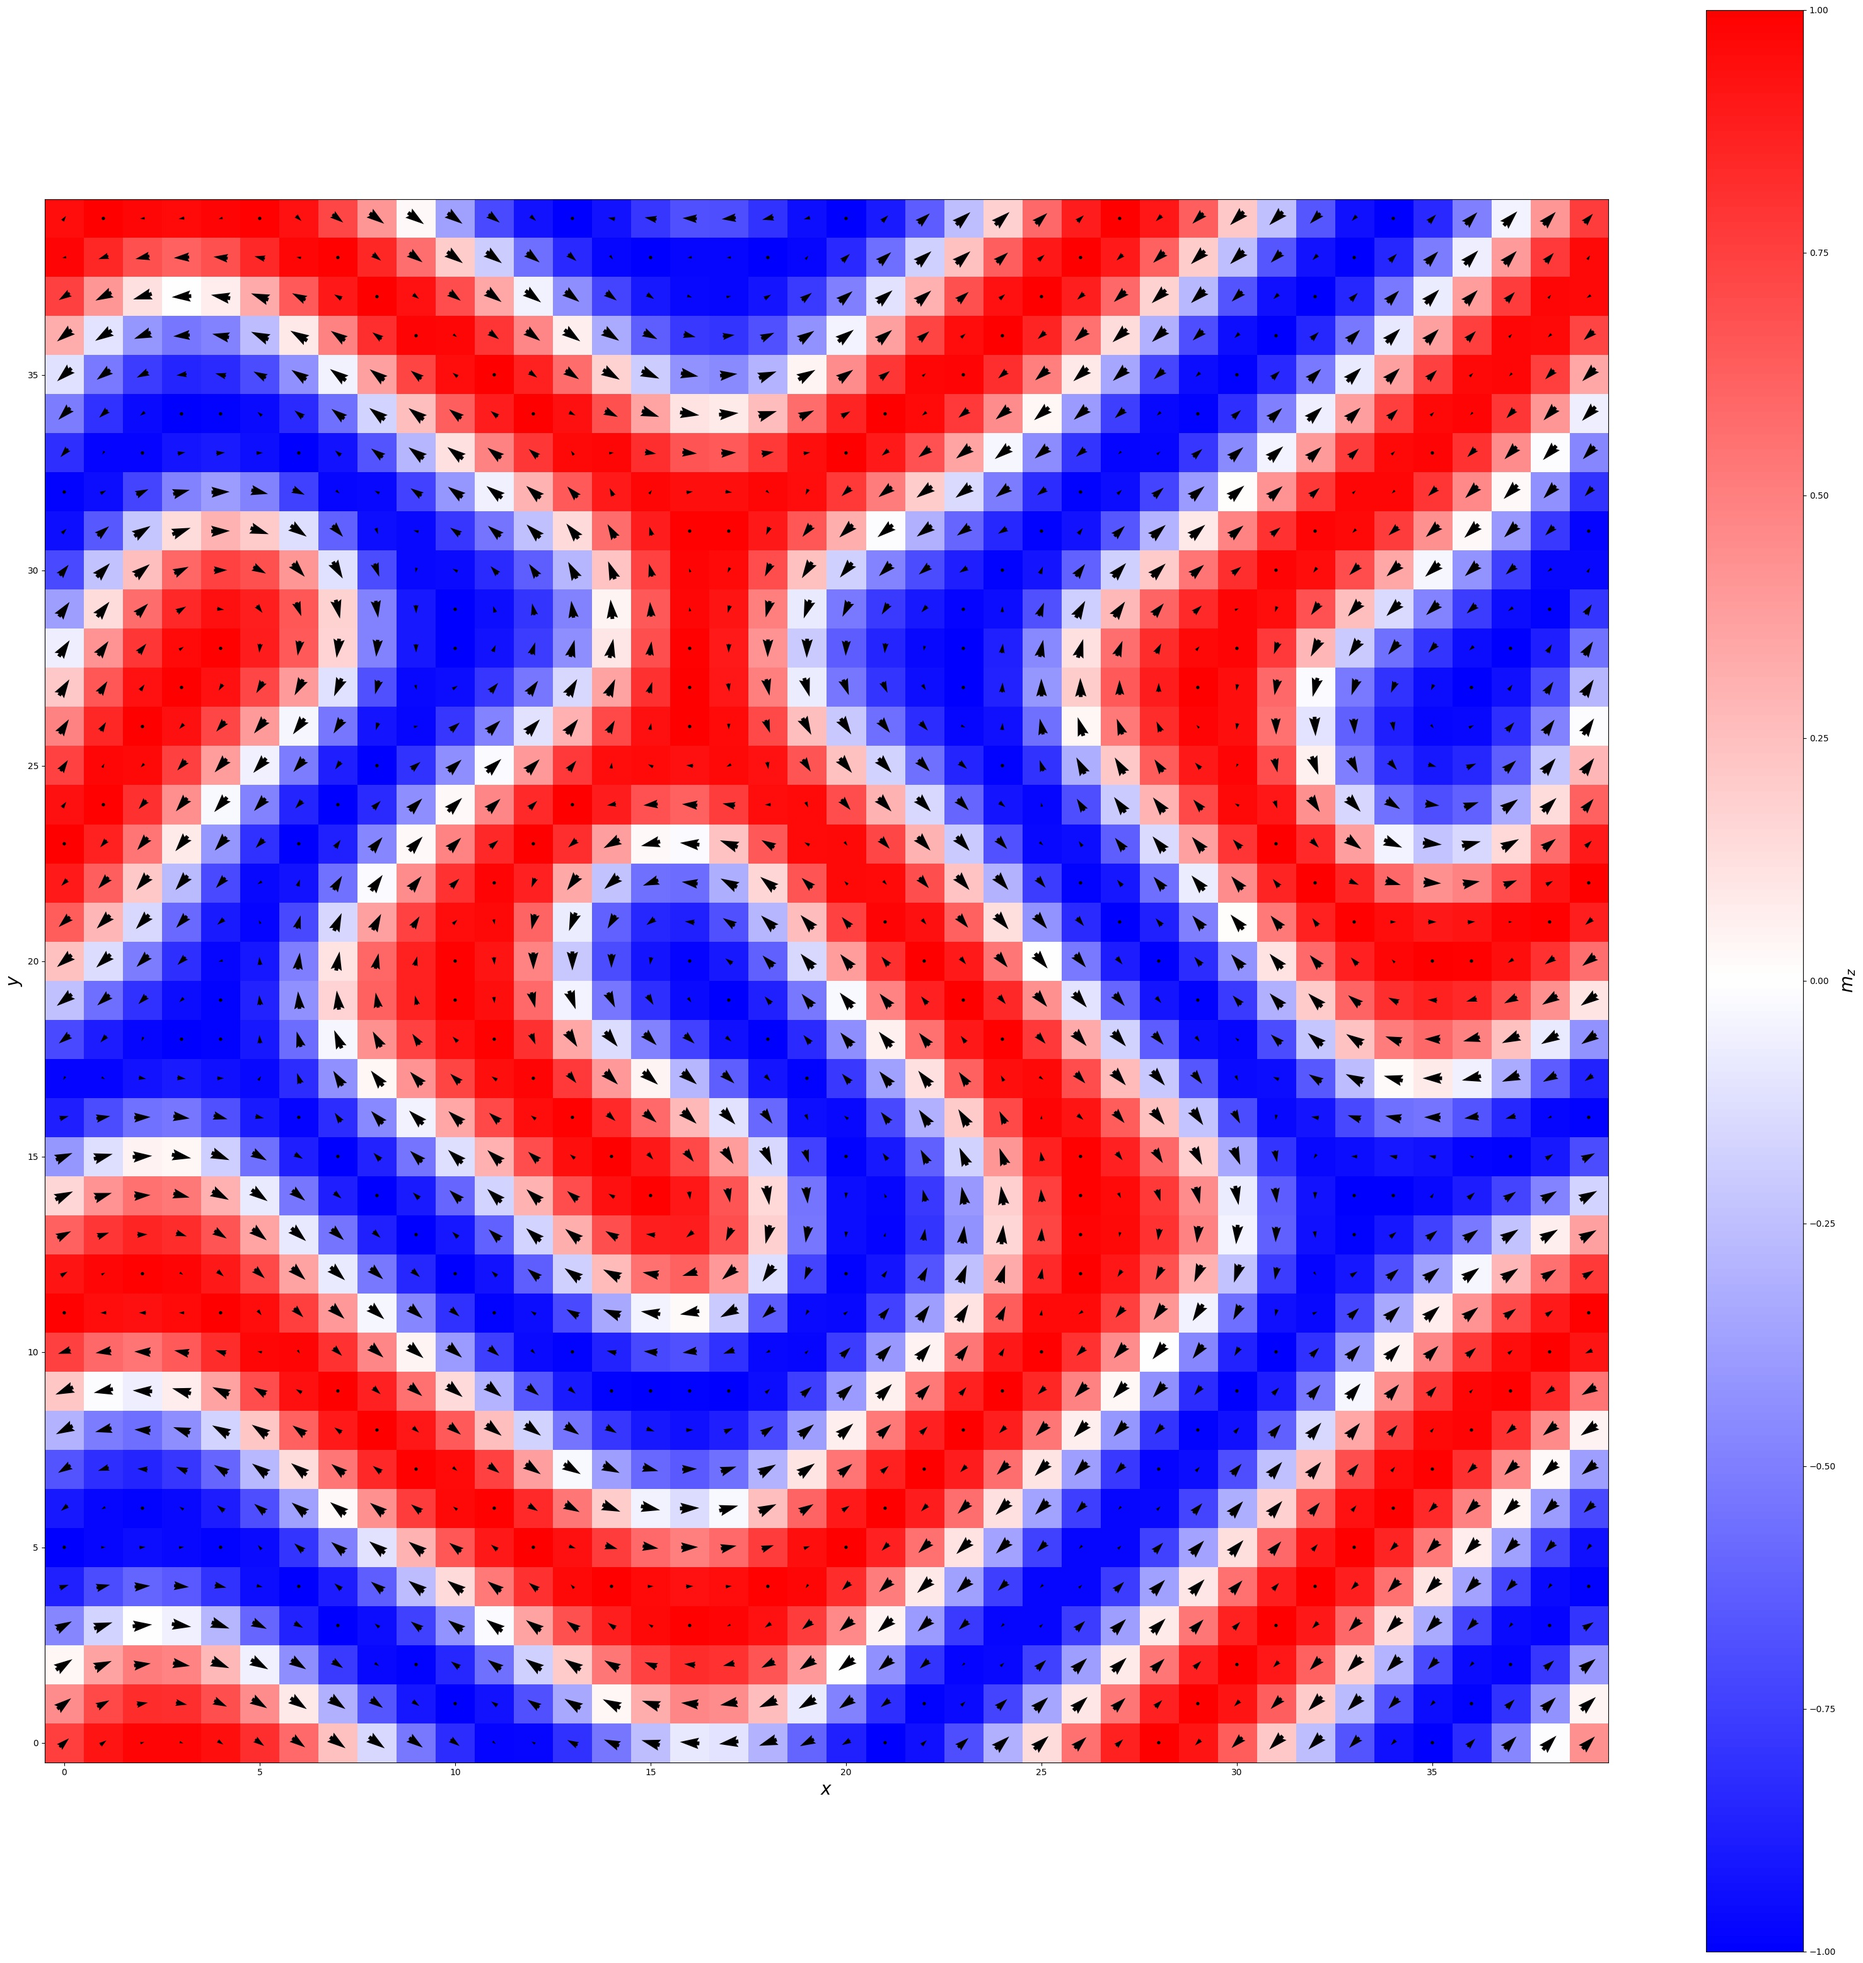
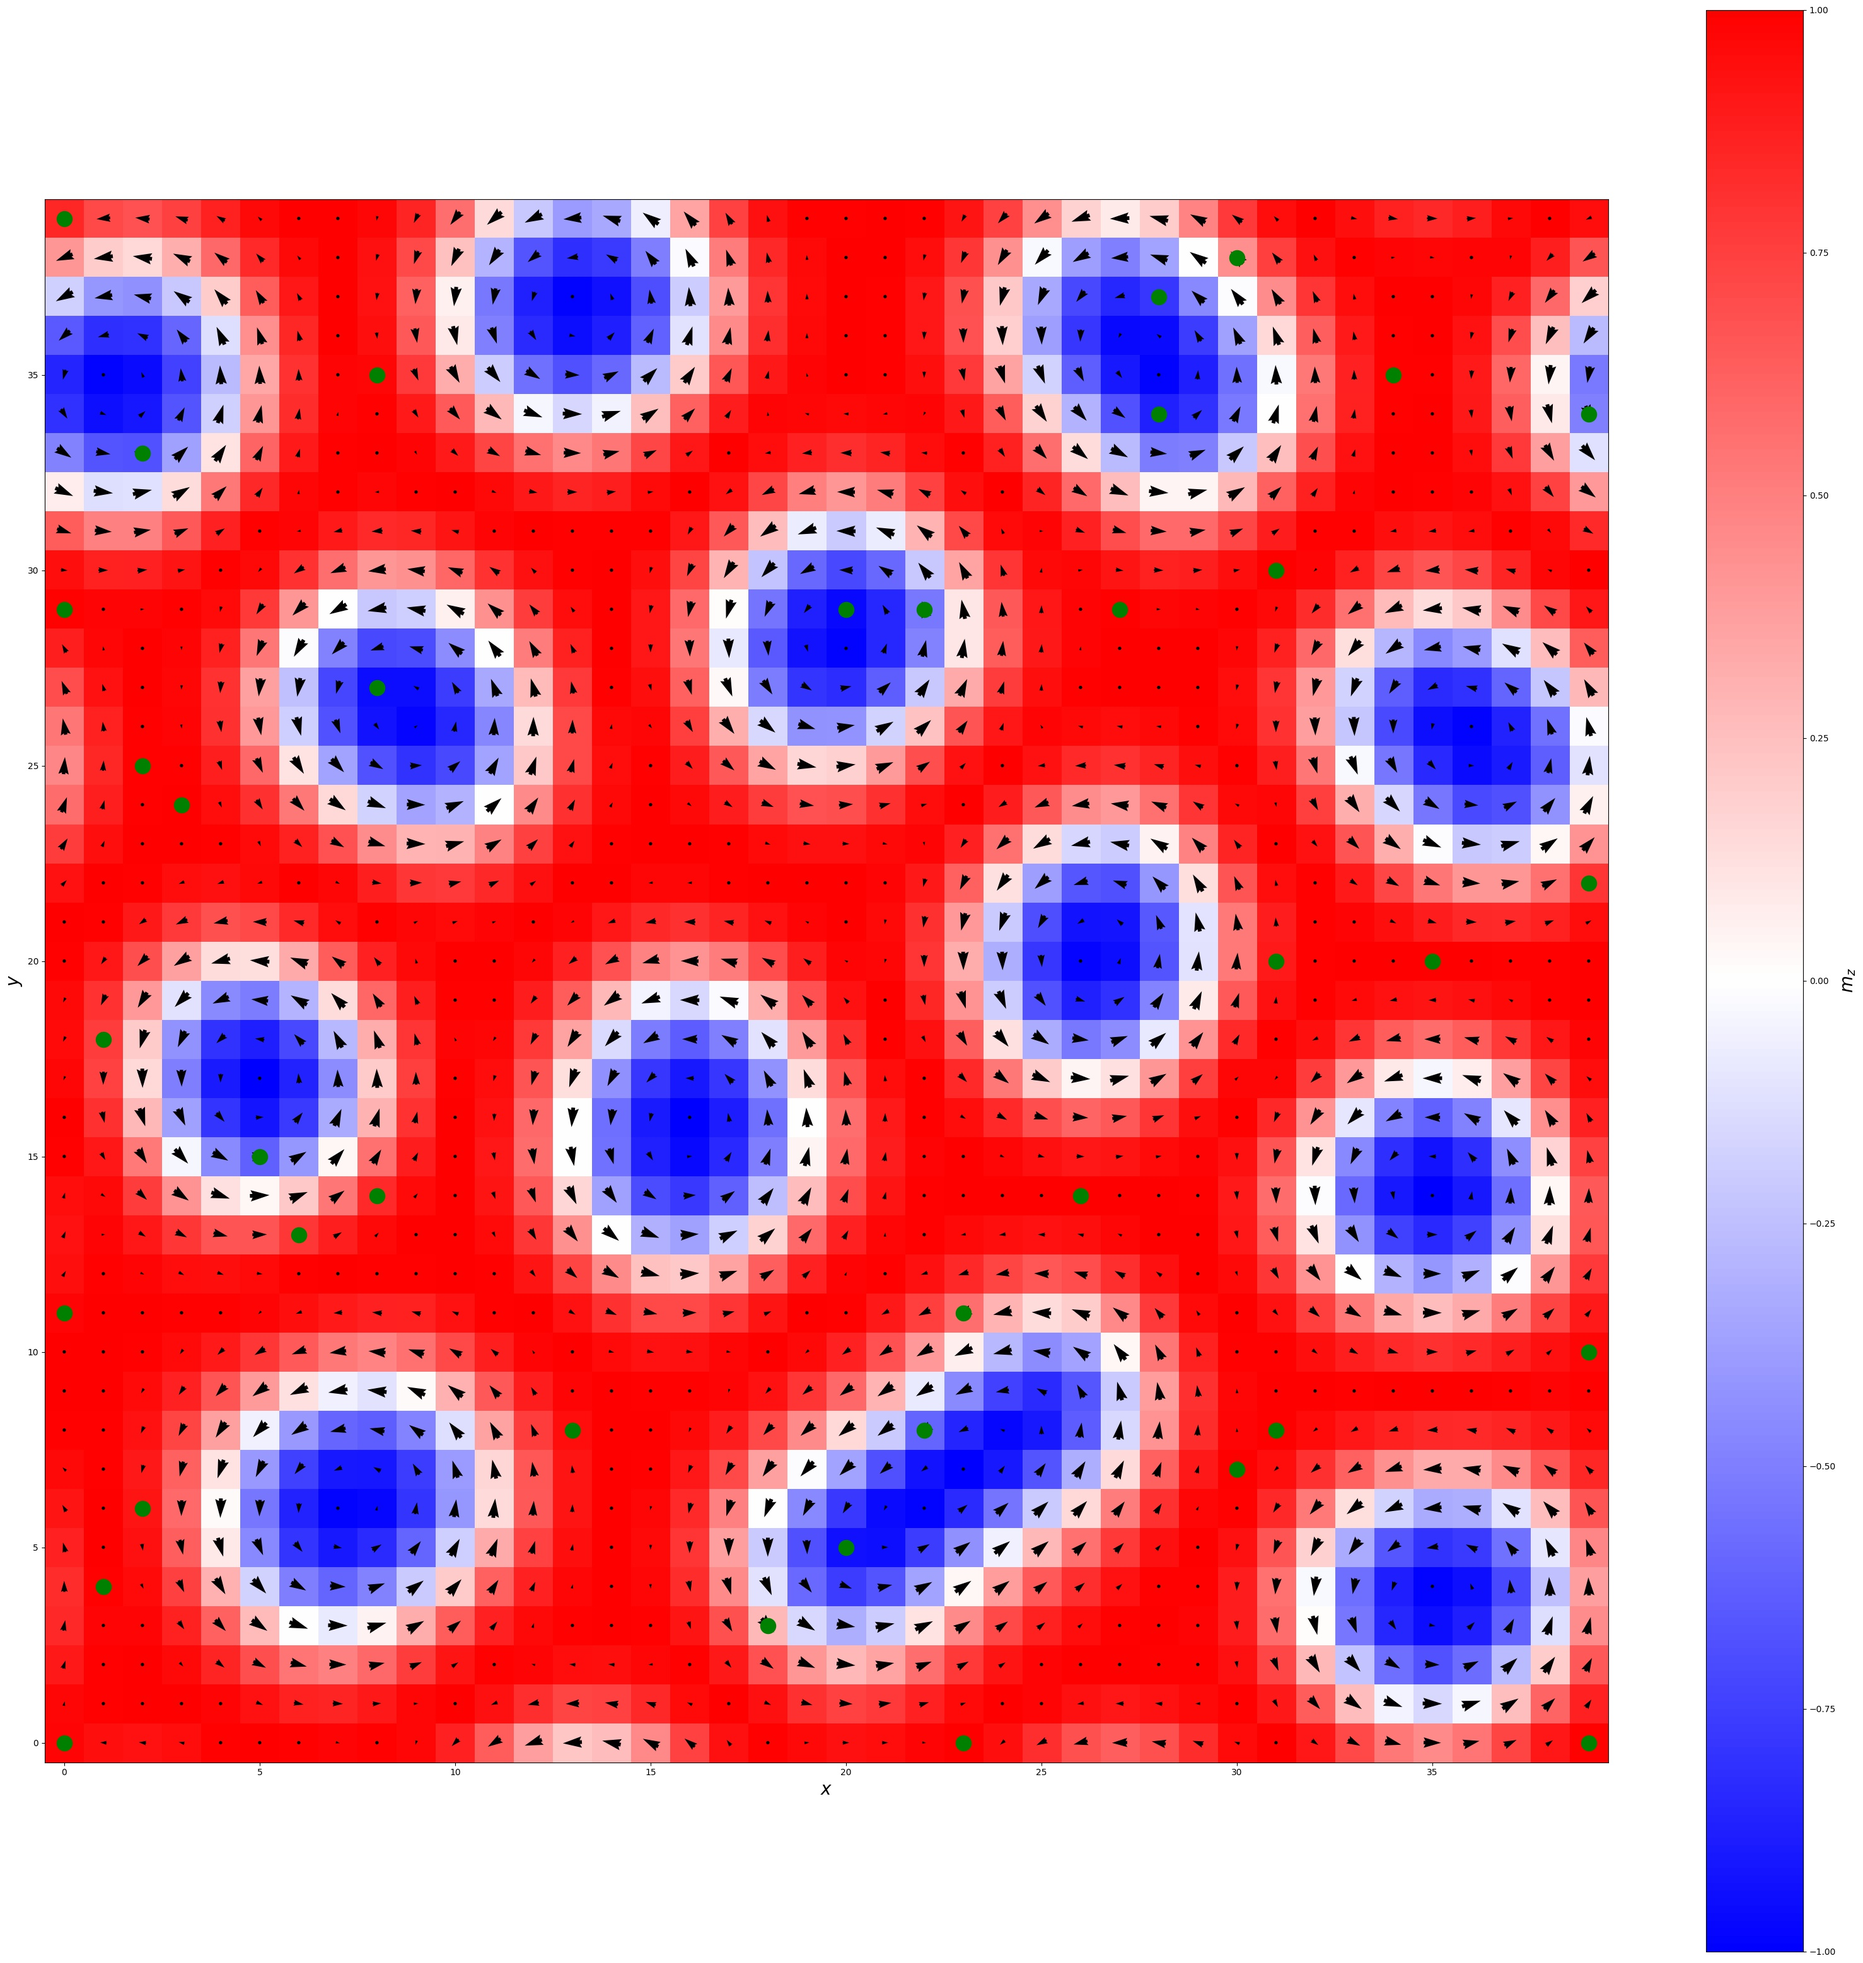
feat: plot anisotropy

diff --git a/plot.py b/plot.py
@@ -2,6 +2,7 @@ import matplotlib.pyplot as plt
 from pathlib import Path
 import pandas as pd
 import os
+import sys
 
 ### FUNCTIONS ###
 
@@ -12,6 +13,14 @@ def make(size):
 
 def readFile(path):
     return pd.read_table(path, header=None)
+
+def getAni(file):
+    size = len(file)
+    pairs = [[j, i] for j in range(int(len(file.T))) for i in range(len(file)) if file[j][size - 1 - i] == 1]
+    if len(pairs) == 0:
+        return [], []
+    x, y = zip(*pairs)
+    return x, y
 
 def getHeat(ax, arq, i, j):
     axes = {"z": 2, "y": 1, "x": 0}
@@ -71,6 +80,9 @@ def saveImages(filePath):
     
     vecs = getVectors(ax1, ax2, file)
     ax.quiver(*vecs, linewidth=5, angles='xy', scale_units='xy', scale=2.0, pivot="mid")
+    
+    if (hasAni == True): ax.scatter(xAni, yAni, color='green', s=300.0)
+    
     ax.set_xlabel(fr"${ax1}$", size=20)
     ax.set_ylabel(fr"${ax2}$", size=20)
     im = ax.imshow(getIm(ax3, file), cmap='bwr', vmin=-1, vmax=1, interpolation='none')
@@ -83,8 +95,20 @@ def saveImages(filePath):
     ax.set_xlim([min([xleft, xright]), max([xleft, xright])])
     fig.savefig("images/" + fileName + ".jpeg", bbox_inches='tight')
     
-### END ###
+### END FUNCTIONS ###
 
-#Main Program
+### MAIN PROGRAM ###
+
 Nx = Ny = 40
+ani = False
+hasAni = False
+xAni = yAni = 0
+
+if (os.path.exists('./in/ani.in')):
+    hasAni = True
+    ani = readFile('./in/ani.in')
+    xAni, yAni = getAni(ani)
+
 plotByDirectory('files/')
+
+### END ###
